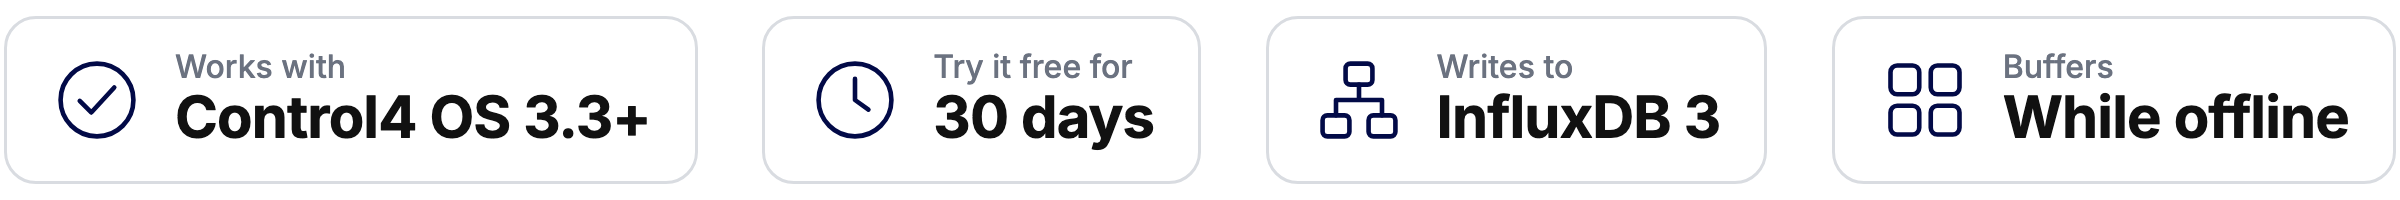
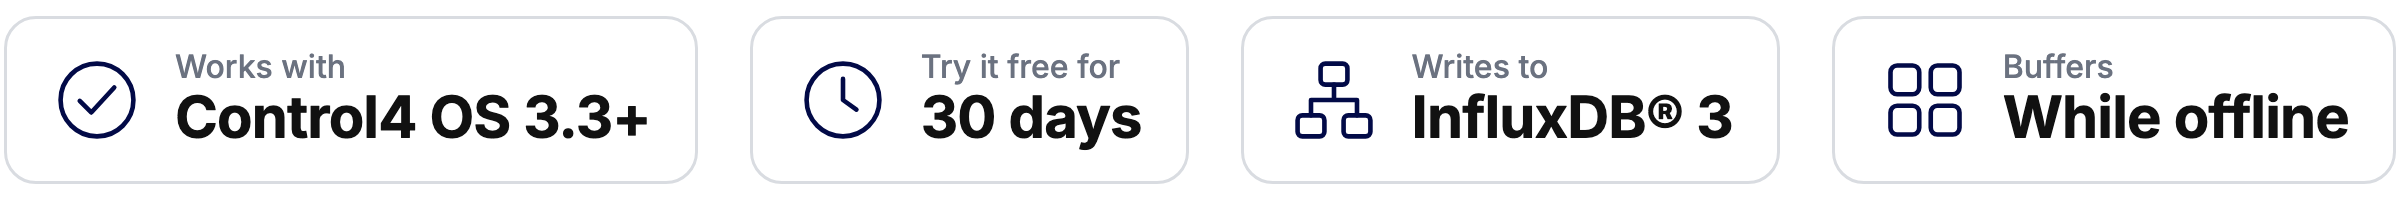
chore: the README says the brand's permission hasn't been obtained

diff --git a/resources/drivercentral/banners/launch-post-2400x1200.html b/resources/drivercentral/banners/launch-post-2400x1200.html
@@ -22,18 +22,20 @@
   .sub { margin: 32px 0 0 2px; color: #c3c8d2; font-size: 24px; line-height: 1.4; font-weight: 400; letter-spacing: -0.005em; }
   .sub em { font-style: normal; color: #fff; font-weight: 600; }
   .mark { position: absolute; left: 851px; top: 215px; width: 167px; height: 169px; object-fit: contain; filter: drop-shadow(0 14px 32px rgba(0,0,0,0.45)); }
+  .note { position: absolute; left: 74px; bottom: 20px; color: #7d8494; font-size: 13px; white-space: nowrap; }
 </style></head>
 <body>
 <div class="dots"></div>
 <img class="mark" src="../assets/brand-mark.png" alt="" onerror="this.remove()">
 <div class="col">
   <img class="fl" src="../assets/finite-labs-logo.png" alt="">
-  <h1>InfluxDB<br>in Control4.</h1>
+  <h1>InfluxDB&reg;<br>in Control4.</h1>
   <div class="row">
-    <div class="chip solid">InfluxDB 3</div>
+    <div class="chip solid">InfluxDB&reg; 3</div>
     <div class="chip line">Control4 OS 3.3+</div>
     <div class="chip line">Offline buffering</div>
   </div>
   <div class="sub">Log any Control4 variable as a<br><em>field</em> or <em>tag</em>, with <em>batched writes</em>.</div>
 </div>
+<div class="note">InfluxDB&reg; is a trademark registered by InfluxData, which is not affiliated with, and does not endorse, this product.</div>
 </body></html>

diff --git a/resources/drivercentral/banners/spotlight-4096x848.html b/resources/drivercentral/banners/spotlight-4096x848.html
@@ -21,16 +21,18 @@
   .sub { position: absolute; left: 104px; top: 334px; color: #c3c8d2; font-size: 34px; font-weight: 400; letter-spacing: -0.005em; white-space: nowrap; }
   .sub em { font-style: normal; color: #fff; font-weight: 600; }
   .mark { position: absolute; left: 1606px; top: 106px; width: 208px; height: 212px; object-fit: contain; filter: drop-shadow(0 18px 40px rgba(0,0,0,0.45)); }
+  .note { position: absolute; left: 104px; bottom: 14px; color: #7d8494; font-size: 15px; letter-spacing: 0; white-space: nowrap; }
 </style></head>
 <body>
 <div class="dots"></div>
 <img class="mark" src="../assets/brand-mark.png" alt="" onerror="this.remove()">
 <img class="fl" src="../assets/finite-labs-logo.png" alt="">
-<h1>InfluxDB in Control4.</h1>
+<h1>InfluxDB&reg; in Control4.</h1>
 <div class="row">
-  <div class="chip solid">InfluxDB 3</div>
+  <div class="chip solid">InfluxDB&reg; 3</div>
   <div class="chip line">Control4 OS 3.3+</div>
   <div class="chip line">Offline buffering</div>
 </div>
 <div class="sub">Log any Control4 variable as a <em>field</em> or <em>tag</em>, with <em>batched writes</em>.</div>
+<div class="note">InfluxDB&reg; is a trademark registered by InfluxData, which is not affiliated with, and does not endorse, this product.</div>
 </body></html>

diff --git a/resources/drivercentral/photos/frame.html b/resources/drivercentral/photos/frame.html
@@ -21,16 +21,18 @@
   .card { position: absolute; left: 60px; width: 880px; height: 1000px; border-radius: 18px; overflow: hidden; background: #f3f4f6;
     box-shadow: 0 40px 90px rgba(0,0,0,0.55), 0 0 0 1px rgba(255,255,255,0.08); }
   .card img { width: 100%; display: block; }
+  .note { position: absolute; left: 60px; right: 60px; bottom: 24px; color: #7d8494; font-size: 14px; }
 </style></head>
 <body>
 <div class="grid"></div>
 <div class="top">
   <img class="fl" src="../assets/finite-labs-logo.png" alt="">
-  <div class="mark"><img src="../assets/brand-mark.png" alt="" onerror="this.remove()">InfluxDB <span>for Control4</span></div>
+  <div class="mark"><img src="../assets/brand-mark.png" alt="" onerror="this.remove()">InfluxDB&reg; <span>for Control4</span></div>
 </div>
 <h1 id="t"></h1>
 <p class="sub" id="s"></p>
 <div class="card" id="c"><img id="i" alt=""></div>
+<div class="note">InfluxDB&reg; is a trademark registered by InfluxData, which is not affiliated with, and does not endorse, this product.</div>
 <script>
   const q = new URLSearchParams(location.search);
   document.getElementById('t').textContent = q.get('t') || '';

diff --git a/resources/drivercentral/banners/facts-strip-2400x200.html b/resources/drivercentral/banners/facts-strip-2400x200.html
@@ -23,7 +23,7 @@
 </div>
 <div class="fact">
   <svg viewBox="0 0 48 48"><rect x="17" y="5" width="14" height="11" rx="2.5"/><rect x="5" y="32" width="14" height="11" rx="2.5"/><rect x="29" y="32" width="14" height="11" rx="2.5"/><path d="M24 16v8M12 32v-8h24v8"/></svg>
-  <div><div class="label">Writes to</div><div class="value">InfluxDB 3</div></div>
+  <div><div class="label">Writes to</div><div class="value">InfluxDB&reg; 3</div></div>
 </div>
 <div class="fact">
   <svg viewBox="0 0 48 48"><rect x="6" y="6" width="15" height="15" rx="3.5"/><rect x="27" y="6" width="15" height="15" rx="3.5"/><rect x="6" y="27" width="15" height="15" rx="3.5"/><rect x="27" y="27" width="15" height="15" rx="3.5"/></svg>

diff --git a/resources/drivercentral/README.md b/resources/drivercentral/README.md
@@ -8,7 +8,7 @@ Marketing images for the InfluxDB listing (the listing's DriverCentral product, 
 | `banners/launch-post-2400x1200` | 2400x1200 | Launch posts (c4forums, Reddit, Discord) |
 | `banners/facts-strip-2400x200` | 2400x200 | The first image in the listing's description: four facts in a row |
 
-`assets/` holds what the pages share: the Finite Labs logo, and InfluxDB's Cubo in white as `brand-mark.png`, exported from this repo's `resources/Driver Icons.sketch` (the art its icons use). InfluxData's logos are on https://influxdata.github.io/branding/logo/brands/; its trademark guidelines (https://www.influxdata.com/legal/guidelines-for-using-influxdata-trademarks/) allow naming the product but ask for a written logo license, and the Cubo needs special permission.
+`assets/` holds what the pages share: the Finite Labs logo, and InfluxDB's Cubo in white as `brand-mark.png`, exported from this repo's `resources/Driver Icons.sketch` (the art its icons use). InfluxData's logos are on https://influxdata.github.io/branding/logo/brands/; its trademark guidelines (https://www.influxdata.com/legal/guidelines-for-using-influxdata-trademarks/) allow naming the product but ask for a written logo license, and the Cubo needs special permission. We haven't obtained that license; the mark is used only to name the database the driver writes to, with the ® and the guidelines' footnote on every page that shows it.
 
 ## Rendering
 
